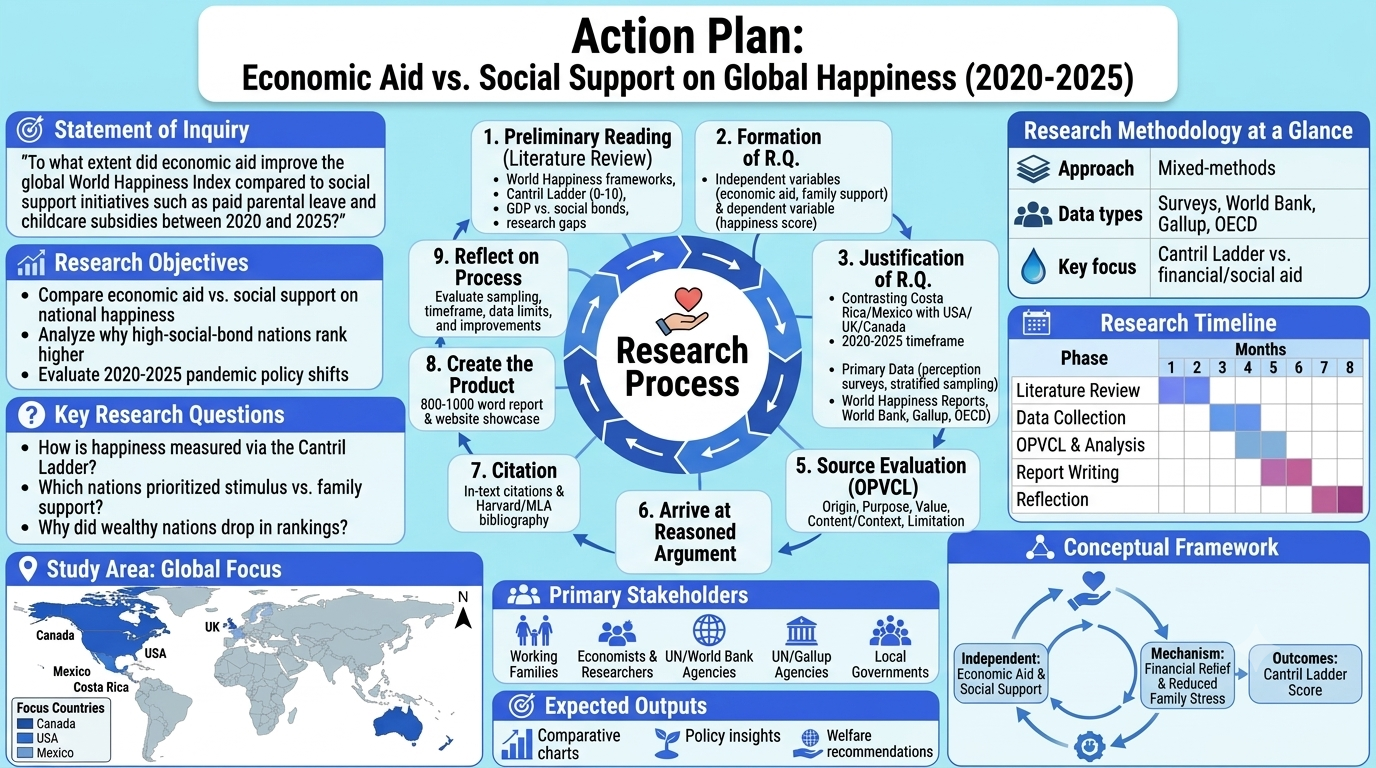
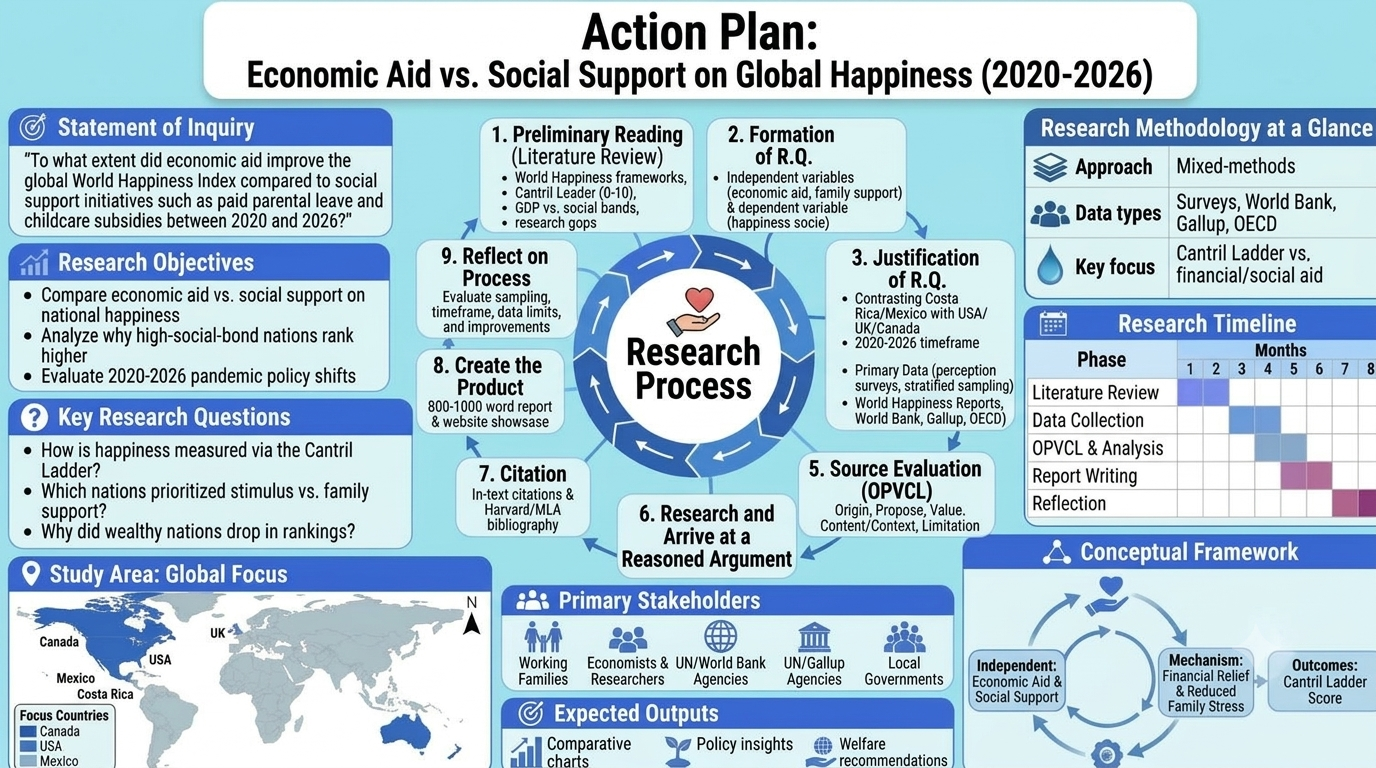
Finished criterion B page

diff --git a/index.html b/index.html
@@ -149,9 +149,9 @@
                             average
                             civilian is able to live with a healthy body and mind; Freedom to Make Life Choices, which
                             is people
-                            feeling that they have the right to make important decisions by themselves; Generosity,
+                            feeling that they have the right to make important decisions by themselves Generosity,
                             which is
-                            determined by measuring how much people are willing to donate; and lastly, Perceptions of
+                            determined by measuring how much people are willing to donate and lastly, Perceptions of
                             Corruption, which evaluates the citizens' trust in the government and businesses and the
                             absence of
                             corruption in them.</p>
@@ -266,17 +266,22 @@
             <!-- Section 5: Scenario in India with Graphs -->
             <div class="card info-card" style="margin-bottom: 20px;">
                 <h2>Scenario in India</h2>
-                <p>In the 2026 World Happiness Report, India secured the 116th rank out of the 147 countries that were ranked. This shows an
-                    improvement when compared to the rank achieved in 2025 which was 118th. This pattern has stayed the same
-                    since 2020, when India was ranked 139th, and from then, India has slowly clawed its way up the happiness
+                <p>In the 2026 World Happiness Report, India secured the 116th rank out of the 147 countries that were
+                    ranked. This shows an
+                    improvement when compared to the rank achieved in 2025 which was 118th. This pattern has stayed the
+                    same
+                    since 2020, when India was ranked 139th, and from then, India has slowly clawed its way up the
+                    happiness
                     leaderboard. Even though India is one of the fastest growing economies in the world, its happiness
-                    rank is still low  because economic growth does not
+                    rank is still low because economic growth does not
                     directly solve everyday struggles of citizens like unfair incomes, temporary jobs, crowded cities,
                     pollution, and, most significantly corruption. Lack of social support has also held the
                     overall rank of India from improving. At the same time, India has gained access to improved
                     healthcare, digital services, and government schemes, which are beginning to help millions of
-                    people improve their lives and feel independent which effectively increases the happiness of people and helps them 
-                     live happy and successful lives. Within South Asia, India is ranked in the middle of the World Happiness Index, as it
+                    people improve their lives and feel independent which effectively increases the happiness of people
+                    and helps them
+                    live happy and successful lives. Within South Asia, India is ranked in the middle of the World
+                    Happiness Index, as it
                     ranks lower than some neighboring countries like Nepal and Pakistan, where people have stronger
                     community support, while ranking higher than Bangladesh and Sri Lanka.</p>
 
@@ -359,7 +364,7 @@
                     <h2>Research Question:</h2>
                     <p>To what extent did economic aid improve the global World Happiness Index compared to social
                         support initiatives such as paid parental leave and childcare subsidies globally between 2020
-                        and 2025?
+                        and 2026?
                     </p>
                 </div>
 
@@ -375,7 +380,7 @@
                         world happiness index despite not having a lot of wealth, while on the other hand, nations with
                         a good economic status, such as the United States of America, Canada, and the United Kingdom,
                         have even dropped in the world happiness index ranking due to many factors such as high cost of
-                        living and stress generated from work. Choosing the time frame 2020 to 2025 is relevant to see
+                        living and stress generated from work. Choosing the time frame 2020 to 2026 is relevant to see
                         recent trends because this time period includes the time of the pandemic and recovery, and in
                         this time period many interventions were made within countries both economically and socially.
                         This means we can see how the happiness ranking changed throughout a time of global change.
@@ -406,7 +411,26 @@
 
                 <div class="card info-card">
                     <h2>Secondary Data That Will Be Used To Answer The Research Question</h2>
-                    <p>Overview of the research parameters and project criteria.</p>
+                    <p>The secondary sources that I will use to help answer my research question are the World Happiness
+                        Reports from 2020 to 2026 because these reports provide the Cantril ladder happiness scores and
+                        explanations of global patterns, and this source will help provide a solid foundation from which
+                        I can start my research. I will also use the OECD database because it will provide me with
+                        standardized data about paid parental leave and other important data about family relationships.
+                        This will help my research a lot because it will give data on family support. I will also use
+                        World Bank Open Data because it tracks GDP per capita, inflation rates, and economic growth, and
+                        this can help me when I evaluate whether better economic stability directly increases national
+                        happiness. I will also use the IMF Fiscal Monitor & Policy Tracker this will help me gain
+                        knowledge on the exact size of governments and their economic aid policies and even pandemic
+                        relief packages, which will help me when I compare short-term financial aid with long-term
+                        social support. Another source that I will use is the ILO World Social Protection Database,
+                        which confirms legal entitlements and coverage rates for maternity protection, child benefits,
+                        and income security across countries like Costa Rica, Mexico, the USA, the UK, and Canada.
+                        Journal of Happiness Studies is another source that I will use to fulfill my research because it
+                        features reviewed evidence that explains why long-term social welfare affects happiness
+                        differently when compared to temporary economic relief. In conclusion, I will use all the
+                        sources that I mentioned above, along with other reliable sources, to conduct my research and
+                        answer my research question.
+                    </p>
                 </div>
 
                 <div class="card info-card">
@@ -415,13 +439,31 @@
                 </div>
                 <div class="card info-card">
                     <h2>Evaluation of Action Plan</h2>
-                    <p>Overview of the research parameters and project criteria.</p>
+                    <p>Overall, my action plan is a strong and reliable guide that I can use in the process of answering
+                        my research question because it organizes my entire investigation into eight different steps,
+                        from background reading to building my website and reflecting on my work. Clearly defining my
+                        independent variables as economic aid and family support and my dependent variable as the
+                        Cantril Ladder happiness score, the plan helps make my research focused on comparing short term
+                        financial relief with ongoing social support between 2020 and 2026. The conceptual framework
+                        clearly explains how these policies reduce family stress and improve happiness. Even though I
+                        may have to make adjustments to the action plan, such as making the timeline for the research
+                        shorter, as it is currently eight months, and fixing small numbering and spelling errors in the
+                        image that were caused because the image was created using AI, in conclusion, the structure of
+                        the plan ensures that my findings are accurate, unbiased, and organized.</p>
                 </div>
 
 
                 <div class="card info-card">
                     <h2>Importance of Bibliography</h2>
-                    <p>Overview of the research parameters and project criteria.</p>
+                    <p>Bibliography is very important not just in my investigation but also in general because it shows
+                        academic honesty by giving proper credit to all the researchers, authors, and organizations
+                        whose work I used during the process of answering my research question. By citing reliable
+                        sources such as the World Happiness Report, the OECD Family Database, and others, I not only
+                        demonstrate academic honesty but also show that my research and conclusions are based on facts
+                        rather than my own opinions. It shows that I used multiple sources to find the most reliable
+                        truth and construct a fair argument. Additionally, bibliography is important because if someone
+                        reads the information that I wrote and they want to read further, they can find the exact
+                        sources I used and read further.</p>
                 </div>
 
             </div>
